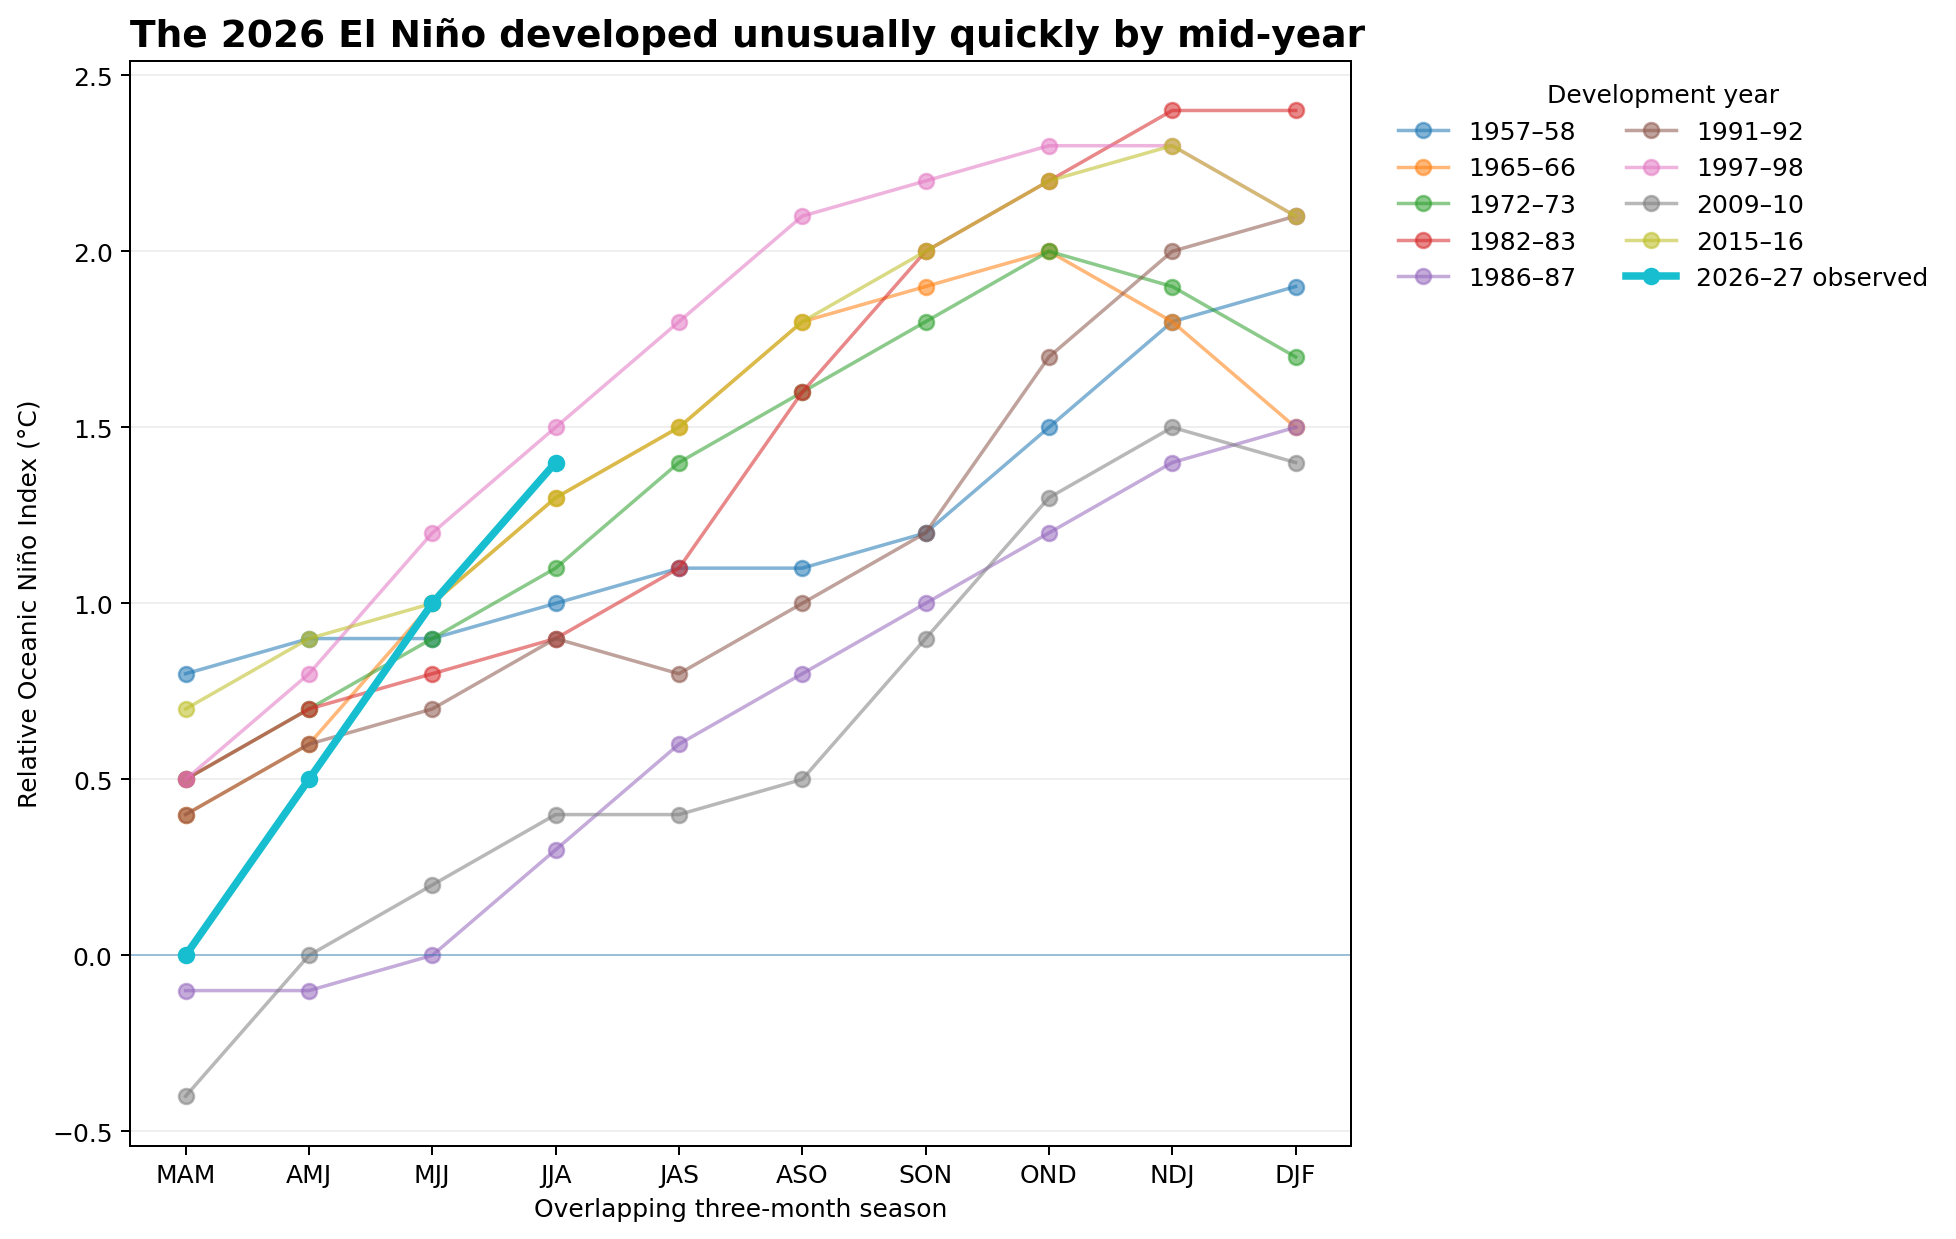
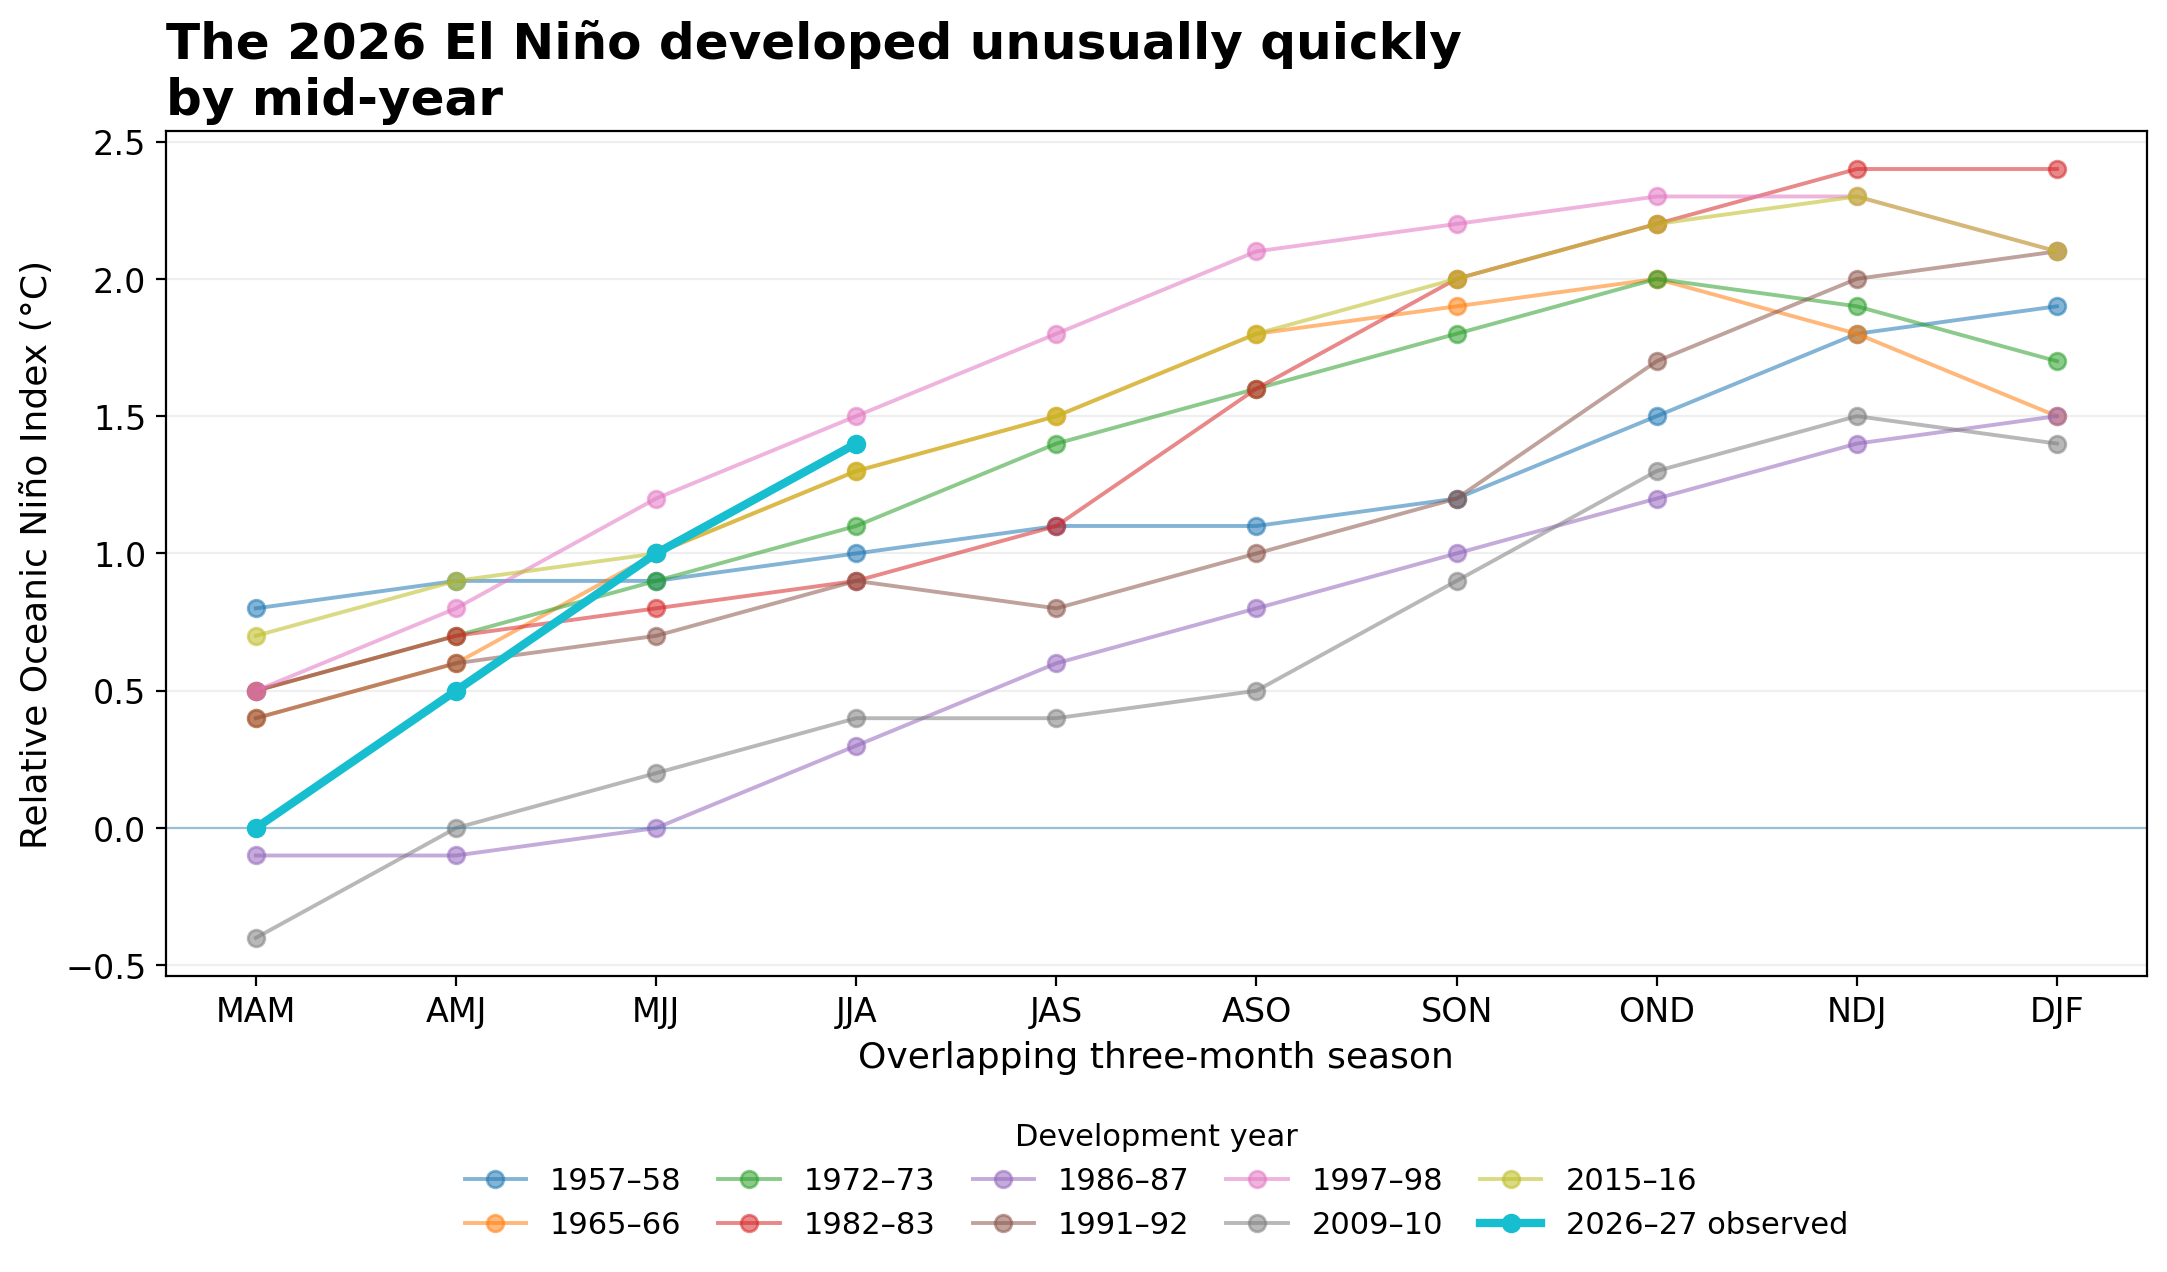
Improve RA01 chart legibility

diff --git a/python/02_analyse_el_nino.py b/python/02_analyse_el_nino.py
@@ -1,4 +1,4 @@
-from pathlib import Path
+from pathlib import Path
 
 import matplotlib.pyplot as plt
 import pandas as pd
@@ -7,9 +7,26 @@ import pandas as pd
 PROJECT_ROOT = Path(__file__).resolve().parents[1]
 CLEANED_DIR = PROJECT_ROOT / "data" / "cleaned"
 VISUALS_DIR = PROJECT_ROOT / "visuals"
+DOCS_ASSETS_DIR = PROJECT_ROOT / "docs" / "assets"
 
 HISTORY_FILE = CLEANED_DIR / "roni_history_tidy.csv"
 FORECAST_FILE = CLEANED_DIR / "roni_forecast_percentiles.csv"
+
+CHART_DPI = 200
+TITLE_FONTSIZE = 18
+ANNOTATION_FONTSIZE = 11
+VALUE_LABEL_FONTSIZE = 12
+
+plt.rcParams.update(
+    {
+        "font.size": 12,
+        "axes.labelsize": 13,
+        "xtick.labelsize": 12,
+        "ytick.labelsize": 12,
+        "legend.fontsize": 11,
+        "legend.title_fontsize": 11,
+    }
+)
 
 # These are the historical comparison episodes frozen during the
 # specification stage. "Development year" is the calendar year used for
@@ -253,11 +270,22 @@ def validate_analysis(
         )
 
 
+def save_chart(fig: plt.Figure, filename: str) -> None:
+    """Save identical chart outputs for the repository and GitHub Pages."""
+    for output_dir in (VISUALS_DIR, DOCS_ASSETS_DIR):
+        output_dir.mkdir(parents=True, exist_ok=True)
+        fig.savefig(
+            output_dir / filename,
+            dpi=CHART_DPI,
+            bbox_inches="tight",
+        )
+
+
 def create_trajectory_chart(
     history: pd.DataFrame,
 ) -> None:
     """Chart historical major-event trajectories against observed 2026."""
-    fig, ax = plt.subplots(figsize=(11, 7))
+    fig, ax = plt.subplots(figsize=(11, 7.5))
 
     for event_label, development_year in derive_major_events(history):
         values = [
@@ -296,9 +324,9 @@ def create_trajectory_chart(
     ax.axhline(0, linewidth=0.8, alpha=0.4)
 
     ax.set_title(
-        "The 2026 El Niño developed unusually quickly by mid-year",
+        "The 2026 El Niño developed unusually quickly\nby mid-year",
         loc="left",
-        fontsize=15,
+        fontsize=TITLE_FONTSIZE,
         fontweight="bold",
     )
     ax.set_ylabel("Relative Oceanic Niño Index (°C)")
@@ -307,19 +335,16 @@ def create_trajectory_chart(
 
     ax.legend(
         title="Development year",
-        ncol=2,
+        ncol=5,
         frameon=False,
-        bbox_to_anchor=(1.02, 1),
-        loc="upper left",
+        bbox_to_anchor=(0.5, -0.14),
+        loc="upper center",
+        columnspacing=1.2,
     )
 
-    fig.tight_layout()
+    fig.tight_layout(rect=(0, 0.1, 1, 1))
 
-    fig.savefig(
-        VISUALS_DIR / "01_historical_trajectories.png",
-        dpi=180,
-        bbox_inches="tight",
-    )
+    save_chart(fig, "01_historical_trajectories.png")
 
     plt.close(fig)
 
@@ -355,7 +380,7 @@ def create_jja_ranking_chart(
             bar.get_y() + bar.get_height() / 2,
             f"{value:+.1f}",
             va="center",
-            fontsize=10,
+            fontsize=VALUE_LABEL_FONTSIZE,
         )
 
     ax.axvline(
@@ -369,14 +394,15 @@ def create_jja_ranking_chart(
         1.51,
         -0.75,
         "Strong threshold",
-        fontsize=9,
+        fontsize=ANNOTATION_FONTSIZE,
         alpha=0.7,
     )
 
     ax.set_title(
-        "JJA 2026 ranks second among previous major El Niño development years",
+        "JJA 2026 ranks second among previous major El Niño\n"
+        "development years",
         loc="left",
-        fontsize=14,
+        fontsize=TITLE_FONTSIZE,
         fontweight="bold",
     )
     ax.set_xlabel("JJA Relative Oceanic Niño Index (°C)")
@@ -385,11 +411,7 @@ def create_jja_ranking_chart(
 
     fig.tight_layout()
 
-    fig.savefig(
-        VISUALS_DIR / "02_jja_same_stage_comparison.png",
-        dpi=180,
-        bbox_inches="tight",
-    )
+    save_chart(fig, "02_jja_same_stage_comparison.png")
 
     plt.close(fig)
 
@@ -404,7 +426,7 @@ def create_forecast_chart(
     Forecast uncertainty is shown using the published percentile ranges,
     rather than implying that the median forecast is a deterministic path.
     """
-    fig, ax = plt.subplots(figsize=(11, 6.5))
+    fig, ax = plt.subplots(figsize=(11, 7))
 
     x = list(range(len(FORECAST_CHART_STAGES)))
 
@@ -489,7 +511,7 @@ def create_forecast_chart(
         3.63,
         ax.get_ylim()[0] + 0.1,
         "Forecast",
-        fontsize=9,
+        fontsize=ANNOTATION_FONTSIZE,
         alpha=0.7,
     )
 
@@ -497,9 +519,9 @@ def create_forecast_chart(
     ax.set_xticklabels(FORECAST_CHART_STAGES)
 
     ax.set_title(
-        "NOAA forecasts a possible move beyond the historical RONI range",
+        "NOAA forecasts a possible move beyond the\nhistorical RONI range",
         loc="left",
-        fontsize=14,
+        fontsize=TITLE_FONTSIZE,
         fontweight="bold",
     )
     ax.set_ylabel("Relative Oceanic Niño Index (°C)")
@@ -513,17 +535,14 @@ def create_forecast_chart(
 
     fig.tight_layout()
 
-    fig.savefig(
-        VISUALS_DIR / "03_observed_vs_noaa_forecast.png",
-        dpi=180,
-        bbox_inches="tight",
-    )
+    save_chart(fig, "03_observed_vs_noaa_forecast.png")
 
     plt.close(fig)
 
 
 def main() -> None:
     VISUALS_DIR.mkdir(parents=True, exist_ok=True)
+    DOCS_ASSETS_DIR.mkdir(parents=True, exist_ok=True)
 
     history = pd.read_csv(HISTORY_FILE)
     forecast = pd.read_csv(FORECAST_FILE)
